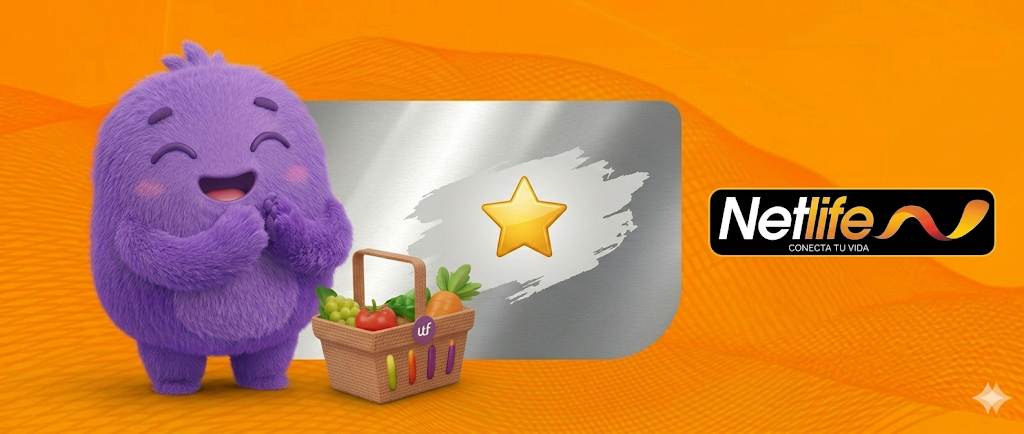
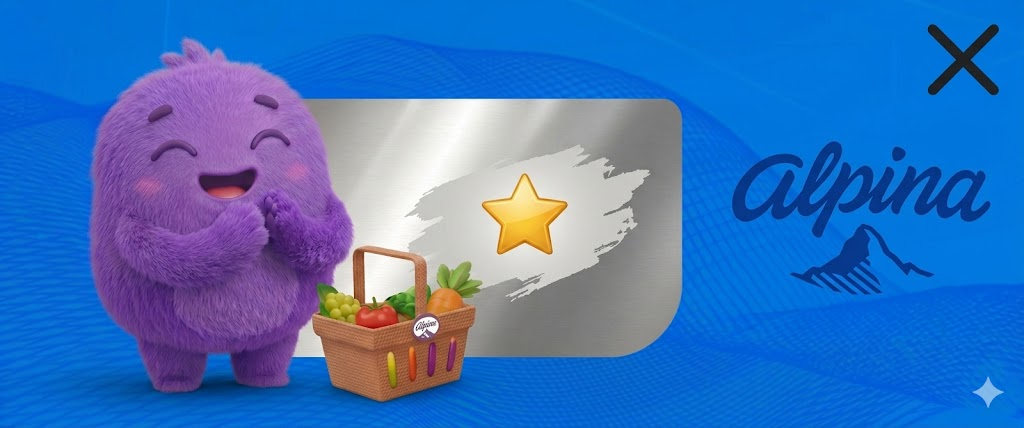
gg

diff --git a/src/components/yapass/levels/molecules/SponsoredLevelChip.tsx b/src/components/yapass/levels/molecules/SponsoredLevelChip.tsx
@@ -2,10 +2,36 @@
 
 import { cn } from "@/lib/cn";
 import { SponsorBadge } from "../../atoms/SponsorBadge";
-import type { SponsoredLevel } from "../types";
+import type { SponsorTheme, SponsoredLevel } from "../types";
 
 export type SponsoredLevelChipProps = Omit<SponsoredLevel, "id" | "kind" | "name"> & {
   className?: string;
+};
+
+/**
+ * Per-sponsor visual palette. Each theme owns the chip body gradient and
+ * the outer shadow tint so a new sponsor can be added without touching
+ * any consumer.
+ */
+const THEMES: Record<
+  SponsorTheme,
+  { body: string; shadow: string; ctaText: string }
+> = {
+  orange: {
+    body: "bg-[radial-gradient(circle_at_30%_30%,#FFD18A_0%,var(--color-sponsor-orange-light)_35%,var(--color-sponsor-orange)_70%,var(--color-sponsor-orange-dark)_100%)]",
+    shadow:
+      "shadow-[inset_0_1px_0_rgba(255,255,255,0.35),0_3px_8px_rgba(232,113,0,0.35)]",
+    ctaText: "text-ink",
+  },
+  // Alpina lockup: the chip body is a soft sky-blue glow that matches the
+  // brand's marketing materials, and the chrome CTA reads in dark blue
+  // for legible contrast against the silver button.
+  alpina: {
+    body: "bg-[radial-gradient(circle_at_30%_25%,#E8F3FF_0%,#A9D2FF_45%,#5BA3F0_85%,#2F77C9_100%)]",
+    shadow:
+      "shadow-[inset_0_1px_0_rgba(255,255,255,0.45),0_3px_8px_rgba(36,98,178,0.40)]",
+    ctaText: "text-[#0e255e]",
+  },
 };
 
 /**
@@ -27,15 +53,17 @@ export function SponsoredLevelChip({
   sponsor,
   cta,
   onCtaClick,
+  theme = "orange",
   className,
 }: SponsoredLevelChipProps) {
+  const t = THEMES[theme];
   return (
     <div
       className={cn(
         "relative flex h-[84px] w-[110px] shrink-0 flex-col items-center justify-between gap-1.5 overflow-hidden",
         "rounded-[var(--radius-md)] p-1.5",
-        "bg-[radial-gradient(circle_at_30%_30%,#FFD18A_0%,var(--color-sponsor-orange-light)_35%,var(--color-sponsor-orange)_70%,var(--color-sponsor-orange-dark)_100%)]",
-        "shadow-[inset_0_1px_0_rgba(255,255,255,0.35),0_3px_8px_rgba(232,113,0,0.35)]",
+        t.body,
+        t.shadow,
         className,
       )}
     >
@@ -46,7 +74,8 @@ export function SponsoredLevelChip({
         className={cn(
           "flex w-full flex-1 cursor-pointer items-center justify-center rounded-[8px] px-1.5",
           "bg-[linear-gradient(to_bottom,var(--color-chrome-top)_0%,#E5E5E5_45%,var(--color-chrome-mid)_60%,var(--color-chrome-bottom)_100%)]",
-          "text-[11px] font-extrabold leading-tight text-ink",
+          "text-[11px] font-extrabold leading-tight",
+          t.ctaText,
           "shadow-[inset_0_1px_0_rgba(255,255,255,0.8),inset_0_-1px_0_rgba(0,0,0,0.15),0_1px_2px_rgba(0,0,0,0.2)]",
           "transition-transform active:scale-95",
         )}

diff --git a/src/components/yapass/levels/molecules/RewardLevelChip.tsx b/src/components/yapass/levels/molecules/RewardLevelChip.tsx
@@ -1,0 +1,63 @@
+import Image from "next/image";
+
+import { cn } from "@/lib/cn";
+import type { RewardLevel, StandardLevelVariant } from "../types";
+
+export type RewardLevelChipProps = Pick<RewardLevel, "imageSrc" | "label"> & {
+  variant?: StandardLevelVariant;
+  className?: string;
+};
+
+const SHAPE_BASE =
+  "h-[84px] w-[110px] shrink-0 rounded-[var(--radius-md)] border border-divider";
+
+const SURFACE =
+  "bg-[linear-gradient(165deg,#FFFFFF_0%,#F4ECEC_55%,#E7D8D8_100%)] " +
+  "shadow-[inset_0_1px_0_rgba(255,255,255,0.7),0_3px_8px_rgba(75,29,140,0.10)]";
+
+/**
+ * Molecule — a "regalo" reward chip. Same outer shape as `LevelChip`
+ * (110×84) so the carousel rail stays visually consistent, but the body
+ * is dominated by a product image (e.g. Alpina yogurt cup) with a small
+ * caption underneath. Locked variant gets the same dark scrim as the
+ * cashback chip so the whole rail can express progression uniformly.
+ */
+export function RewardLevelChip({
+  imageSrc,
+  label,
+  variant = "upcoming",
+  className,
+}: RewardLevelChipProps) {
+  const isLocked = variant === "upcoming";
+
+  return (
+    <div
+      className={cn(
+        "relative flex flex-col items-center justify-center gap-1 overflow-hidden px-2 py-1.5",
+        SHAPE_BASE,
+        SURFACE,
+        className,
+      )}
+    >
+      <div className="relative h-[52px] w-[52px] shrink-0">
+        <Image
+          src={imageSrc}
+          alt={label}
+          fill
+          sizes="52px"
+          className="object-contain"
+        />
+      </div>
+      <span className="text-[12px] font-bold uppercase leading-none text-primary">
+        {label}
+      </span>
+
+      {isLocked ? (
+        <span
+          aria-hidden="true"
+          className="pointer-events-none absolute inset-0 rounded-[inherit] bg-[linear-gradient(135deg,rgba(20,15,30,0.18)_0%,rgba(20,15,30,0.42)_60%,rgba(20,15,30,0.55)_100%)]"
+        />
+      ) : null}
+    </div>
+  );
+}

diff --git a/src/app/(tabs)/page.tsx b/src/app/(tabs)/page.tsx
@@ -228,17 +228,48 @@ function HomeScreenInner() {
     { icon: IoStorefrontOutline, label: "Tienda Deuna" },
   ];
 
+  // YaPass progression — refreshed to match the latest Figma:
+  //   1) Regalo  (Alpina yogurt)        — completed
+  //   2) $0.15   Cashback               — active
+  //   3) Regalo  (Alpina yogurt sabor)  — upcoming
+  //   4) $0.15   Cashback               — upcoming (locked)
+  //   5) Sponsored Alpina "Raspa y Gana!"
   const levels: Level[] = [
-    { id: "1", amount: "$0.20", label: "Cashback", name: "Nivel 1", variant: "completed" },
-    { id: "2", amount: "$0.50", label: "Cashback", name: "Nivel 2", variant: "active" },
-    { id: "3", amount: "$0.70", label: "Cashback", name: "Nivel 3" },
-    { id: "4", amount: "$1", label: "Cashback", name: "Nivel 4" },
+    {
+      id: "1",
+      kind: "reward",
+      imageSrc: "/assets/yapass/yogurt-1.png",
+      label: "Regalo",
+      name: "Nivel 1",
+      variant: "completed",
+    },
+    {
+      id: "2",
+      amount: "$0.15",
+      label: "Cashback",
+      name: "Nivel 2",
+      variant: "active",
+    },
+    {
+      id: "3",
+      kind: "reward",
+      imageSrc: "/assets/yapass/yogurt-2.png",
+      label: "Regalo",
+      name: "Nivel 3",
+    },
+    {
+      id: "4",
+      amount: "$0.15",
+      label: "Cashback",
+      name: "Nivel 4",
+    },
     {
       id: "5",
       kind: "sponsored",
       name: "Nivel 5",
-      sponsor: { name: "Netlife" },
+      sponsor: { name: "Alpina", logoSrc: "/assets/alpina/logo.png" },
       cta: "Raspa y Gana!",
+      theme: "alpina",
       onCtaClick: openRaspa,
     },
   ];

diff --git a/src/components/yapass/levels/molecules/LevelItem.tsx b/src/components/yapass/levels/molecules/LevelItem.tsx
@@ -1,6 +1,7 @@
 import { LevelName } from "../atoms/LevelName";
-import { isSponsoredLevel, type Level } from "../types";
+import { isRewardLevel, isSponsoredLevel, type Level } from "../types";
 import { LevelChip } from "./LevelChip";
+import { RewardLevelChip } from "./RewardLevelChip";
 import { SponsoredLevelChip } from "./SponsoredLevelChip";
 
 export type LevelItemProps = {
@@ -9,11 +10,12 @@ export type LevelItemProps = {
 
 /**
  * Molecule — a single column in the levels carousel: the chip on top
- * and its "Nivel N" name beneath. Handles both standard and sponsored
- * variants via discriminated union.
+ * and its "Nivel N" name beneath. Handles standard cashback chips,
+ * "regalo" reward chips and sponsored chips via discriminated union.
  */
 export function LevelItem({ level }: LevelItemProps) {
-  const active = !isSponsoredLevel(level) && level.variant === "active";
+  const active =
+    !isSponsoredLevel(level) && level.variant === "active";
 
   return (
     <div className="flex snap-start flex-col items-center gap-2">
@@ -21,7 +23,14 @@ export function LevelItem({ level }: LevelItemProps) {
         <SponsoredLevelChip
           sponsor={level.sponsor}
           cta={level.cta}
+          theme={level.theme}
           onCtaClick={level.onCtaClick}
+        />
+      ) : isRewardLevel(level) ? (
+        <RewardLevelChip
+          imageSrc={level.imageSrc}
+          label={level.label}
+          variant={level.variant ?? "upcoming"}
         />
       ) : (
         <LevelChip

diff --git a/src/components/yapass/levels/types.ts b/src/components/yapass/levels/types.ts
@@ -18,6 +18,25 @@ export type StandardLevel = {
   variant?: StandardLevelVariant;
 };
 
+/**
+ * "Regalo" level — a non-cashback reward (e.g. a sponsored yogurt). The
+ * chip renders the product image with a "regalo" caption instead of a
+ * money amount.
+ */
+export type RewardLevel = {
+  id: string;
+  kind: "reward";
+  /** Public path to the product image shown inside the chip. */
+  imageSrc: string;
+  /** Caption rendered below the image ("regalo"). */
+  label: string;
+  /** Level display name below the chip ("Nivel 1"). */
+  name: string;
+  variant?: StandardLevelVariant;
+};
+
+export type SponsorTheme = "orange" | "alpina";
+
 export type SponsoredLevel = {
   id: string;
   kind: "sponsored";
@@ -30,11 +49,17 @@ export type SponsoredLevel = {
   };
   /** CTA text rendered inside the chrome button ("Raspa y Gana!"). */
   cta: string;
+  /** Visual palette for the chip body. Defaults to "orange" (Netlife-style). */
+  theme?: SponsorTheme;
   onCtaClick?: () => void;
 };
 
-export type Level = StandardLevel | SponsoredLevel;
+export type Level = StandardLevel | RewardLevel | SponsoredLevel;
 
 export function isSponsoredLevel(level: Level): level is SponsoredLevel {
   return level.kind === "sponsored";
+}
+
+export function isRewardLevel(level: Level): level is RewardLevel {
+  return level.kind === "reward";
 }

diff --git a/src/components/yapass/organisms/RaspaYGanaPanel.tsx b/src/components/yapass/organisms/RaspaYGanaPanel.tsx
@@ -128,8 +128,9 @@ export function RaspaYGanaPanel({ onBack, onClaim }: RaspaYGanaPanelProps) {
 function RaspaIntroContent({ onEmpezar }: { onEmpezar: () => void }) {
   return (
     <div className="flex flex-col gap-4">
-      {/* Hero — orange gradient with mascot + Netlife co-brand */}
-      <div className="relative h-[170px] w-full shrink-0 overflow-hidden rounded-[var(--radius-md)] bg-gradient-to-b from-[#7a4aae] to-[#5a2a8e]">
+      {/* Hero — Alpina co-brand banner: blue mountain backdrop with the
+          DeUna mascot showing off a winning scratch ticket. */}
+      <div className="relative h-[170px] w-full shrink-0 overflow-hidden rounded-[var(--radius-md)] bg-gradient-to-b from-[#5BA3F0] to-[#2F77C9]">
         <Image
           src="/assets/raspa/hero-banner.png"
           alt=""
@@ -333,13 +334,13 @@ function RaspaBoardContent({
         </div>
       </div>
 
-      {/* Netlife sponsor logo */}
+      {/* Alpina sponsor logo (blue mountain oval). */}
       <Image
-        src="/assets/raspa/netlife-logo.png"
-        alt="Netlife"
+        src="/assets/alpina/logo.png"
+        alt="Alpina"
         width={140}
-        height={36}
-        className="h-9 w-auto object-contain"
+        height={56}
+        className="h-12 w-auto object-contain"
       />
 
       <div className="w-full px-4">

diff --git a/src/components/yapass/organisms/CampaignAlerts.tsx b/src/components/yapass/organisms/CampaignAlerts.tsx
@@ -20,8 +20,9 @@ export type CampaignAlertsProps = {
   fallback?: Location;
   /** Broadcast radius filter used on both /nearby and /stream. */
   radiusM?: number;
-  /** Show a small live-connection pill in the corner. Handy during
-   *  demos and while debugging whether SSE is actually connected. */
+  /** Show a small live-connection pill in the corner. Off by default —
+   *  it's only useful while debugging the SSE channel; in production
+   *  it adds visual noise above the header. */
   showLiveIndicator?: boolean;
 };
 
@@ -36,7 +37,7 @@ export type CampaignAlertsProps = {
 export function CampaignAlerts({
   fallback = FALLBACK_LOCATION,
   radiusM = DEFAULT_RADIUS_M,
-  showLiveIndicator = true,
+  showLiveIndicator = false,
 }: CampaignAlertsProps = {}) {
   const effective = useEffectiveLocation(fallback, { enabled: true });
   const stream = useCampaignStream({

diff --git a/src/components/yapass/levels/index.ts b/src/components/yapass/levels/index.ts
@@ -27,6 +27,8 @@ export type { ProgressDotProps } from "./atoms/ProgressDot";
 // Molecules
 export { LevelChip } from "./molecules/LevelChip";
 export type { LevelChipProps } from "./molecules/LevelChip";
+export { RewardLevelChip } from "./molecules/RewardLevelChip";
+export type { RewardLevelChipProps } from "./molecules/RewardLevelChip";
 export { SponsoredLevelChip } from "./molecules/SponsoredLevelChip";
 export type { SponsoredLevelChipProps } from "./molecules/SponsoredLevelChip";
 export { LevelItem } from "./molecules/LevelItem";
@@ -45,6 +47,8 @@ export type {
   Level,
   StandardLevel,
   StandardLevelVariant,
+  RewardLevel,
+  SponsorTheme,
   SponsoredLevel,
 } from "./types";
-export { isSponsoredLevel } from "./types";
+export { isRewardLevel, isSponsoredLevel } from "./types";
